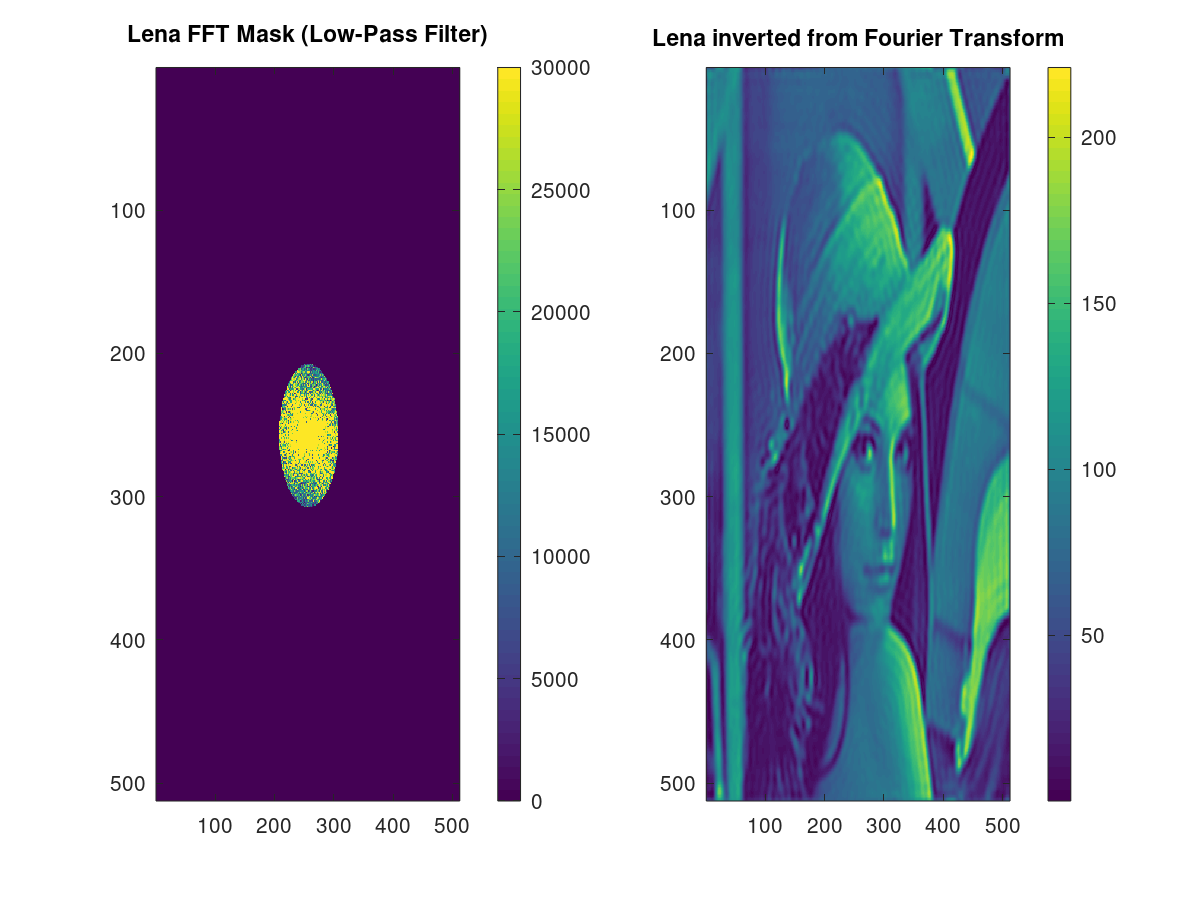
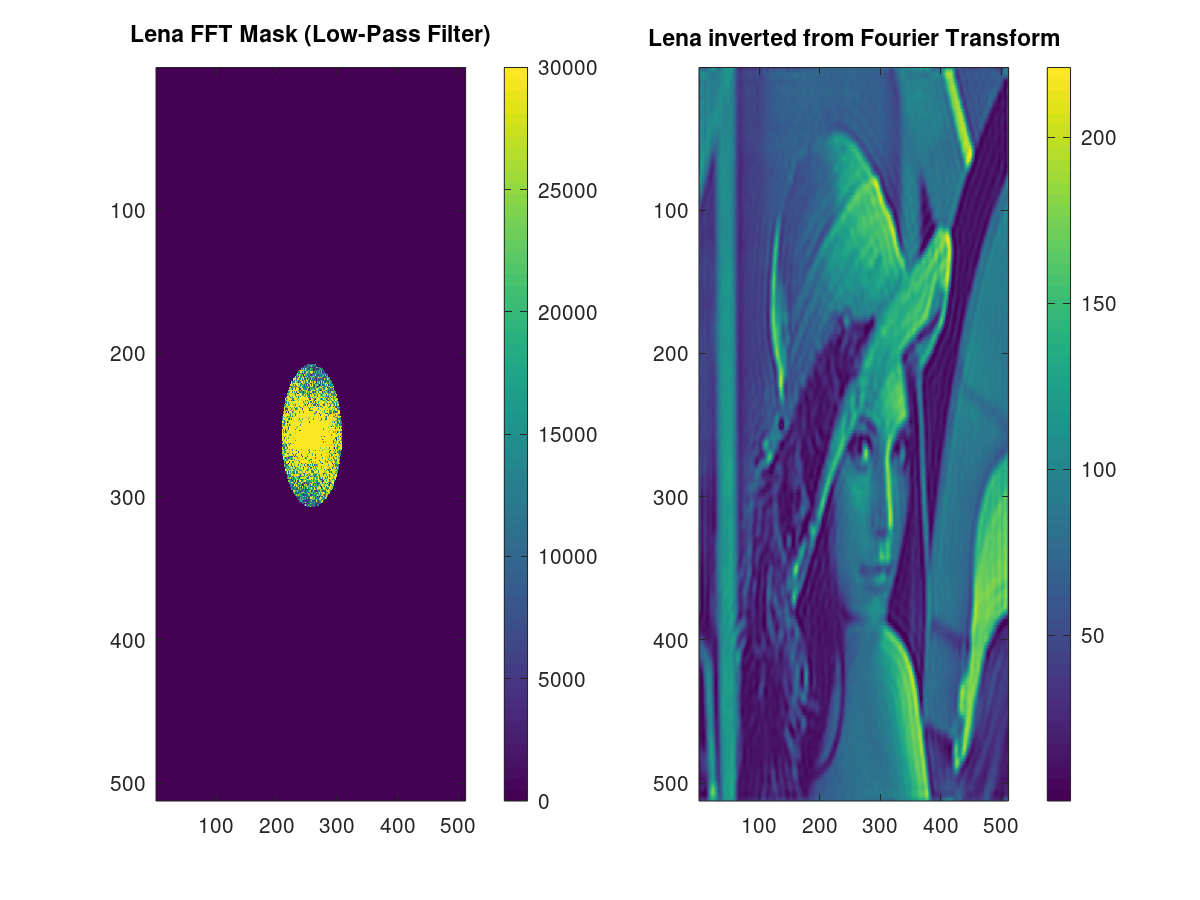
:sparkles: Noise part

Changed region(s): [[0.5242, 0.0311, 0.8942, 0.9333], [0.0925, 0.0311, 0.4933, 0.9333], [0.2158, 0.4044, 0.3083, 0.56]]

diff --git a/TP5/tp5.m b/TP5/tp5.m
@@ -216,5 +216,48 @@ colorbar();
 title("Lena inverted from Fourier Transform");
 saveas(f, "output/lena_low_pass_filter.png");
 
+
+## Bruit poivre et sel
+
+p = 0.05;
+lena_bruit_1 = imnoise(lena,'salt & pepper',p);
+
+## Bruit Gaussien
+
+lena_bruit_2 = lena;
+mu = 0;
+var = 10;
+X = mu + randn(size(lena,1), size(lena,2))*var;
+lena_bruit_2 = lena_bruit_2 + X;
+
+## Debruitage
+
+function distance = euclidean_distance_img(img1, img2)
+	distance = sqrt(sum((img1(:) - img2(:)).^2));
+endfunction
+
+function img = delNoise(original, noise)
+  [img_fft, magnitude_img, arg_img] = ftcomponent(noise, true);
+  img_fft_icircle = iremoveCircle(img_fft, 257.5, 258, 65);
+  img_inv = ifft2(img_fft_icircle);
+
+  img_fft_icircle = arrayfun(@choosePixel, img_fft_icircle);
+
+  figure;
+  subplot(1, 2, 1);
+  imshow(noise);
+  colorbar();
+  title("Noise image");
+  f = subplot(1, 2, 2);
+  imagesc(abs(img_inv));
+  text(0, 580, ["Euclidean distance: " num2str(euclidean_distance_img(original, abs(img_inv)))]);
+  colorbar();
+  title("Image inverted from Fourier Transform");
+  saveas(f, "output/del_noise_low_pass_filter.png");
+endfunction
+
+delNoise(lena, lena_bruit_1);
+delNoise(lena, lena_bruit_2);
+
 % Comment the following line to keep the images displayed during execution.
 %close all hidden;
